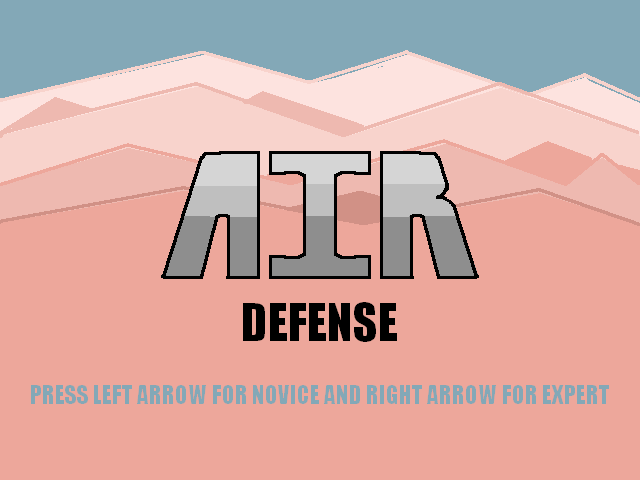
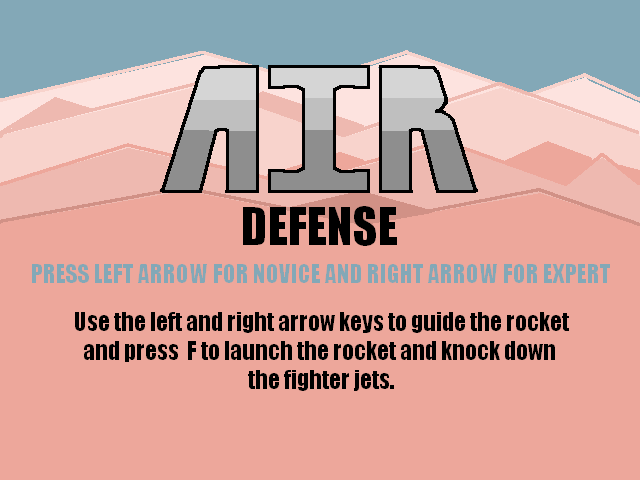
finished

Changed region(s): [[0.0312, 0.125, 0.9688, 0.5938], [0.0312, 0.625, 0.9688, 0.8438]]

diff --git a/src/scenes/Menu.js b/src/scenes/Menu.js
@@ -1,3 +1,6 @@
+// Efrain Luengas
+// 5/19/2021
+// 13 hours to complete
 class Menu extends Phaser.Scene {
     constructor() {
       super("menuScene");
@@ -11,26 +14,10 @@ class Menu extends Phaser.Scene {
       this.load.image('menu', './assets/menu.png');
     }
     create() {
-      this.menu = this.add.tileSprite(0, 0, 640, 480, 'menu').setOrigin(0, 0)      /*let menuConfig = {
-        fontFamily: 'Courier',
-        fontSize: '28px',
-        backgroundColor: '#F3B141',
-        color: '#843605',
-        align: 'right',
-        padding: {
-          top: 5,
-          bottom: 5,
-      },
-        fixedWidth: 0
-      }*/ 
+      // Menu image
+      this.menu = this.add.tileSprite(0, 0, 640, 480, 'menu').setOrigin(0, 0)     
 
-      // menu text
-      /*this.add.text(game.config.width/2, game.config.height/2 - borderUISize - borderPadding, 'ROCKET PATROL', menuConfig).setOrigin(0.5);
-      this.add.text(game.config.width/2, game.config.height/2, 'use <--> arrows to move & F to fire', menuConfig).setOrigin(0.5);
-      menuConfig.backgroundColoe = '#00FF00';
-      menuConfig.color = '#000';
-      this.add.text(game.config.width/2, game.config.height/2 + borderUISize + borderPadding, 'press <- for Novice or -> for Expert', menuConfig).setOrigin(0.5);
-*/
+
       // define keys
       keyLEFT = this.input.keyboard.addKey(Phaser.Input.Keyboard.KeyCodes.LEFT);
       keyRIGHT = this.input.keyboard.addKey(Phaser.Input.Keyboard.KeyCodes.RIGHT);

diff --git a/src/main.js b/src/main.js
@@ -1,3 +1,22 @@
+// Efrain Luengas
+// 5/19/2021
+// 13 hours to complete
+/*
+sound assets rocket_shot.wav, explosion38.wav, and blip_select12.wav were downloaded from freesound.org
+rocket_shot.wav: https://freesound.org/people/LittleRobotSoundFactory/sounds/270339/
+explosion38.wav: https://freesound.org/people/LittleRobotSoundFactory/sounds/270311/
+blip_selesct12.wav: https://freesound.org/people/LittleRobotSoundFactory/sounds/270334/
+
+sound asset common_fight.wav was downloaded from https://patrickdearteaga.com/chiptune-8-bit-retro/
+
+Points:
+I believe with wht I have implemented I deserve 95 points.
+I redesigned the art, UI, and sound (60)
+I implemented a new enemy that moves faster, and is worth more points (20)
+I implemented paralax scrolling in my game (10)
+I added the ability to control the rocket/missile after firing (5)
+*/
+
 let config = {
     type: Phaser.AUTO,
     width: 640,

diff --git a/src/prefabs/Rocket.js b/src/prefabs/Rocket.js
@@ -1,3 +1,6 @@
+// Efrain Luengas
+// 5/19/2021
+// 13 hours to complete
 // Rocket prefab
 class Rocket extends Phaser.GameObjects.Sprite {
     constructor(scene, x, y, texture, frame) {
@@ -12,14 +15,14 @@ class Rocket extends Phaser.GameObjects.Sprite {
 
     update() {
         // L/R movement
-        //if(!this.isFiring) {
+        
             if(keyLEFT.isDown && this.x >= borderUISize + this.width) {
                 this.x -= this.moveSpeed;
             } else if (keyRIGHT.isDown && this.x <= game.config.width -
             borderUISize - this.width) {
                 this.x += this.moveSpeed;
             }
-        //}
+      
         // fire
         if(Phaser.Input.Keyboard.JustDown(keyF)) {
             this.isFiring = true;

diff --git a/src/scenes/Play.js b/src/scenes/Play.js
@@ -1,3 +1,6 @@
+// Efrain Luengas
+// 5/19/2021
+// 13 hours to complete
 class Play extends Phaser.Scene {
     constructor() {
       super("playScene");
@@ -21,6 +24,19 @@ class Play extends Phaser.Scene {
       }
 
     create() {
+        // music
+        this.sfxMusic = this.sound.add("sfx_music");
+        var sfxmusicConfig = {
+          mute: false,
+          volume: 0.25,
+          rate: 1,
+          detune: 0,
+          seek:0,
+          loop: true,
+          delay: 0
+        }
+        this.sfxMusic.play(sfxmusicConfig);
+
         // place background tile sprites
         this.sky = this.add.tileSprite(0, 0, 640, 480, 'sky').setOrigin(0, 0)
         this.hill4 = this.add.tileSprite(0, 0, 640, 480, 'hill4').setOrigin(0, 0)

diff --git a/src/prefabs/Aircraft.js b/src/prefabs/Aircraft.js
@@ -1,3 +1,6 @@
+// Efrain Luengas
+// 5/19/2021
+// 13 hours to complete
 // Aircraft prefab
 class Aircraft extends Phaser.GameObjects.Sprite {
     constructor(scene, x, y, texture, frame, pointValue) {

diff --git a/src/prefabs/Jet.js b/src/prefabs/Jet.js
@@ -1,3 +1,6 @@
+// Efrain Luengas
+// 5/19/2021
+// 13 hours to complete
 // Jet prefab
 class Jet extends Phaser.GameObjects.Sprite {
     constructor(scene, x, y, texture, frame, pointValue) {
